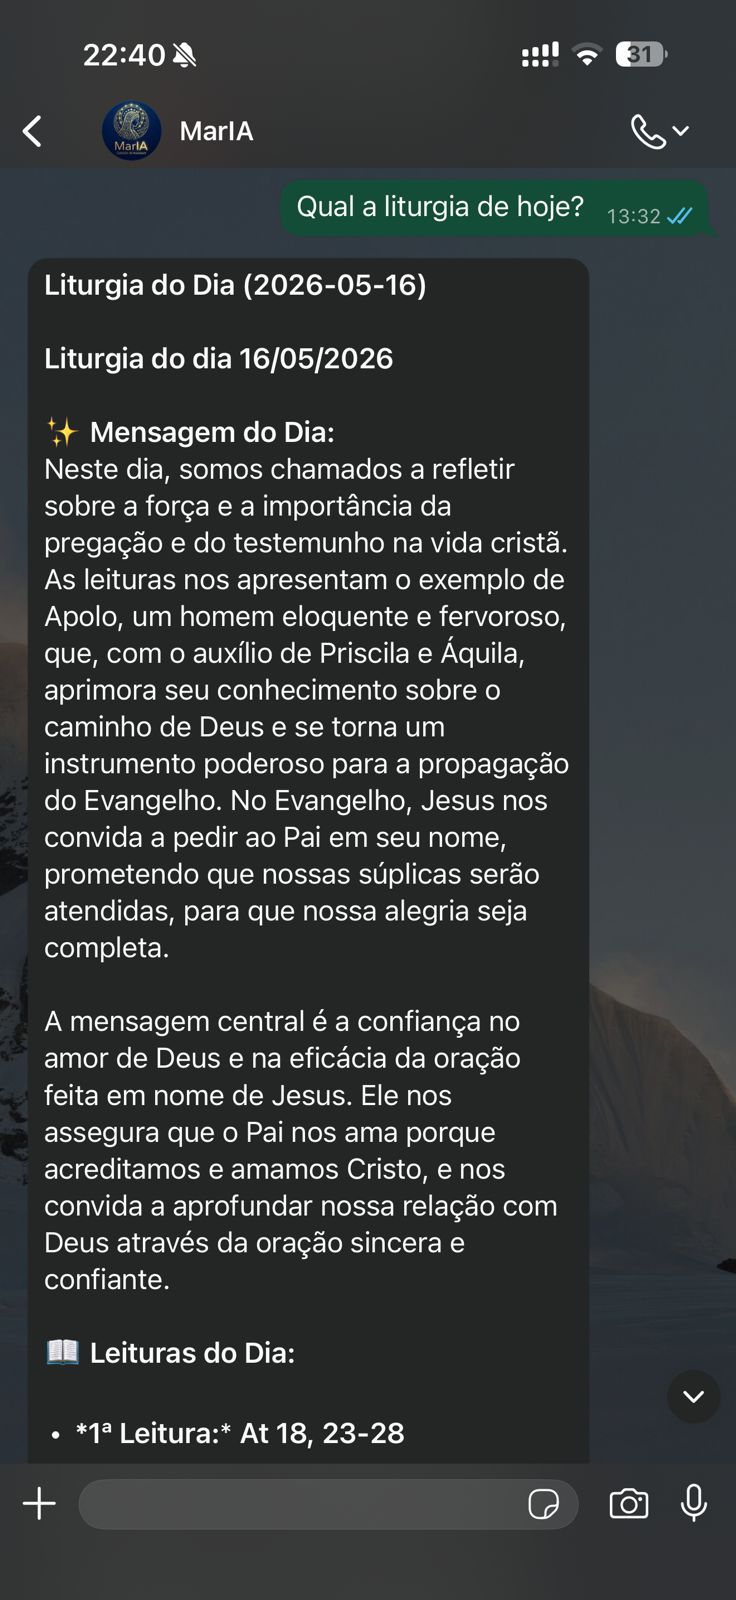
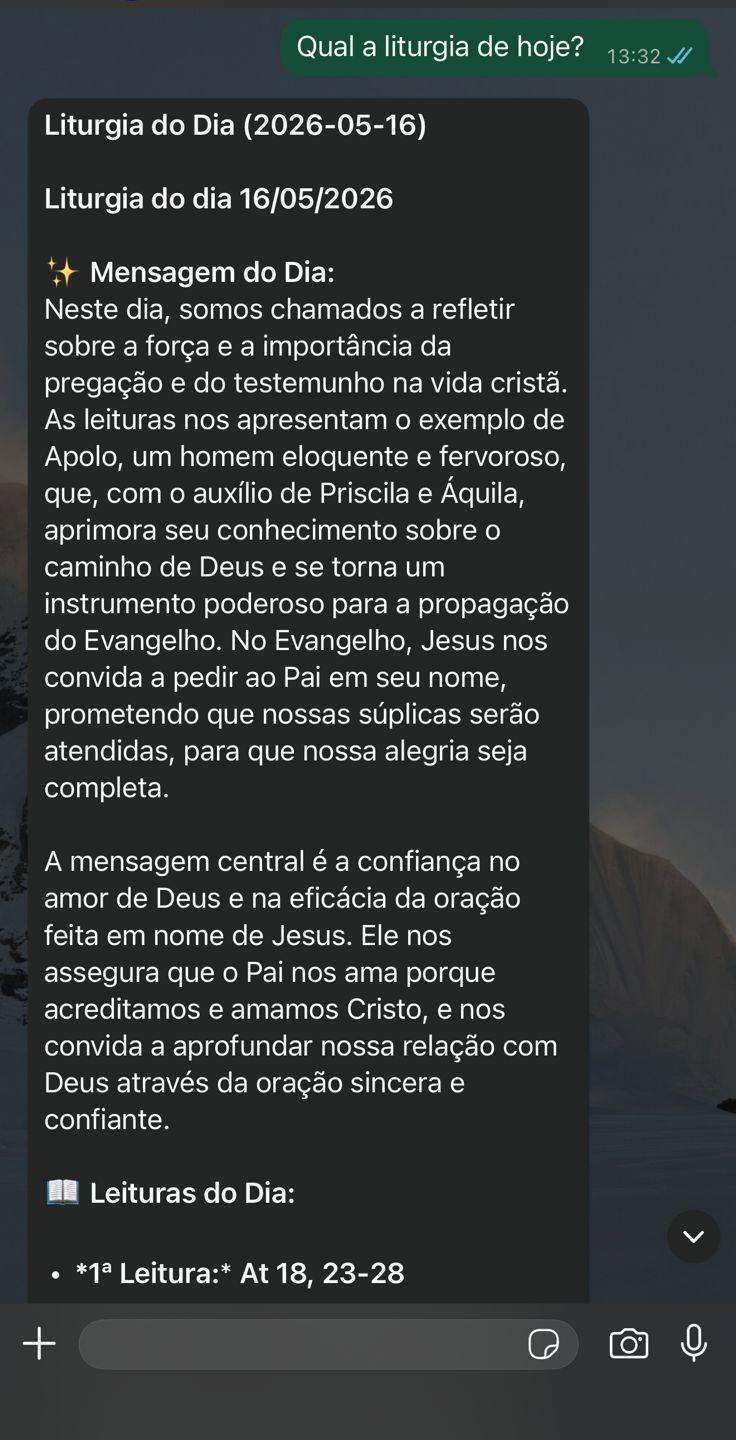
feat: implement legal pages with markdown rendering and update landing page assets and theme.

diff --git a/landing/src/app/privacidade/page.tsx b/landing/src/app/privacidade/page.tsx
@@ -50,9 +50,9 @@ export default function PrivacyPolicy() {
     html = html.replace(/\*\*(.*?)\*\*/g, "<strong>$1</strong>");
 
     // Headers
-    html = html.replace(/^### (.*?)$/gm, "<h3 class='text-xl font-bold mt-8 mb-4 text-white'>$1</h3>");
-    html = html.replace(/^## (.*?)$/gm, "<h2 class='text-2xl font-bold mt-10 mb-4 text-white border-b border-white/10 pb-2'>$1</h2>");
-    html = html.replace(/^# (.*?)$/gm, "<h1 class='text-4xl font-extrabold mt-12 mb-6 text-[#D4AF37]'>$1</h1>");
+    html = html.replace(/^### (.*?)$/gm, "<h3 class='text-xl font-bold mt-8 mb-4 text-slate-800'>$1</h3>");
+    html = html.replace(/^## (.*?)$/gm, "<h2 class='text-2xl font-bold mt-10 mb-4 text-slate-900 border-b border-slate-200 pb-2'>$1</h2>");
+    html = html.replace(/^# (.*?)$/gm, "<h1 class='text-4xl font-extrabold mt-12 mb-6 text-[#0047AB]'>$1</h1>");
 
     // Bullet Lists
     const lines = html.split("\n");
@@ -64,7 +64,7 @@ export default function PrivacyPolicy() {
         let res = "";
         if (!inList) {
           inList = true;
-          res += "<ul class='list-disc list-inside my-6 pl-4 space-y-3 text-slate-300'>";
+          res += "<ul class='list-disc list-inside my-6 pl-4 space-y-3 text-slate-600'>";
         }
         res += `<li>${content}</li>`;
         return res;
@@ -91,7 +91,7 @@ export default function PrivacyPolicy() {
         if (trimmed.startsWith("<h") || trimmed.startsWith("<ul") || trimmed.startsWith("<li")) {
           return trimmed;
         }
-        return `<p class="my-5 text-slate-300 leading-relaxed font-light text-base md:text-lg">${trimmed.replace(/\n/g, "<br />")}</p>`;
+        return `<p class="my-5 text-slate-600 leading-relaxed font-light text-base md:text-lg">${trimmed.replace(/\n/g, "<br />")}</p>`;
       })
       .filter(Boolean)
       .join("\n");
@@ -100,22 +100,22 @@ export default function PrivacyPolicy() {
   }
 
   return (
-    <div className="min-h-screen bg-slate-950 font-sans text-slate-300 selection:bg-[#D4AF37] selection:text-[#0047AB] overflow-x-hidden relative flex flex-col justify-between">
+    <div className="min-h-screen bg-slate-50 font-sans text-slate-700 selection:bg-[#D4AF37]/35 selection:text-slate-900 overflow-x-hidden relative flex flex-col justify-between">
       {/* Background Ornaments */}
-      <div className="absolute inset-0 bg-[#000a1c] -z-20"></div>
-      <div className="absolute top-[-10%] right-[-10%] w-[70%] h-[70%] bg-[#0047AB]/20 rounded-full filter blur-[120px] opacity-40 -z-10"></div>
-      <div className="absolute bottom-[-15%] left-[-10%] w-[60%] h-[60%] bg-[#D4AF37]/10 rounded-full filter blur-[100px] opacity-30 -z-10"></div>
+      <div className="absolute inset-0 bg-[#FAF9F6] -z-20"></div>
+      <div className="absolute top-[-10%] right-[-10%] w-[70%] h-[70%] bg-[#0047AB]/5 rounded-full filter blur-[120px] opacity-40 -z-10"></div>
+      <div className="absolute bottom-[-15%] left-[-10%] w-[60%] h-[60%] bg-[#D4AF37]/5 rounded-full filter blur-[100px] opacity-30 -z-10"></div>
 
       {/* Top Navbar */}
-      <header className="w-full z-50 bg-slate-950/70 backdrop-blur-xl border-b border-white/5 shadow-lg">
+      <header className="w-full z-50 bg-white/70 backdrop-blur-xl border-b border-slate-200/60 shadow-sm">
         <div className="max-w-7xl mx-auto px-6 h-20 flex justify-between items-center">
           <Link href="/" className="flex items-center gap-3 group">
-            <div className="relative w-12 h-12 rounded-full overflow-hidden shadow-sm border border-white/10 group-hover:scale-105 transition-transform duration-300">
+            <div className="relative w-12 h-12 rounded-full overflow-hidden shadow-sm border border-slate-200/60 group-hover:scale-105 transition-transform duration-300">
                <Image src="/maria_logo_premium.png" alt="MarIA Logo" fill className="object-cover" />
             </div>
-            <span className="font-bold text-2xl tracking-tight text-white">MarIA</span>
+            <span className="font-bold text-2xl tracking-tight text-slate-900">MarIA</span>
           </Link>
-          <Link href="/" className="px-6 py-2.5 bg-white/5 border border-white/10 text-white rounded-full hover:bg-white/10 hover:border-white/20 hover:shadow-lg transition-all shadow-sm font-semibold text-sm">
+          <Link href="/" className="px-6 py-2.5 bg-slate-100 border border-slate-200 text-slate-800 rounded-full hover:bg-slate-200 hover:shadow-md transition-all shadow-sm font-semibold text-sm">
             Voltar para o Início
           </Link>
         </div>
@@ -125,45 +125,45 @@ export default function PrivacyPolicy() {
       <main className="flex-grow max-w-4xl w-full mx-auto px-6 py-16 md:py-24 relative z-10">
         {loading ? (
           /* Loading Skeleton Status */
-          <div className="bg-white/5 backdrop-blur-xl rounded-[2rem] border border-white/10 p-8 md:p-12 shadow-2xl animate-pulse space-y-8">
-            <div className="h-4 bg-white/10 rounded w-1/4"></div>
-            <div className="h-10 bg-white/10 rounded w-3/4"></div>
+          <div className="bg-white/80 backdrop-blur-xl rounded-[2rem] border border-slate-200/60 p-8 md:p-12 shadow-xl animate-pulse space-y-8">
+            <div className="h-4 bg-slate-200 rounded w-1/4"></div>
+            <div className="h-10 bg-slate-200 rounded w-3/4"></div>
             <div className="space-y-3">
-              <div className="h-4 bg-white/10 rounded"></div>
-              <div className="h-4 bg-white/10 rounded"></div>
-              <div className="h-4 bg-white/10 rounded w-5/6"></div>
+              <div className="h-4 bg-slate-200 rounded"></div>
+              <div className="h-4 bg-slate-200 rounded"></div>
+              <div className="h-4 bg-slate-200 rounded w-5/6"></div>
             </div>
-            <div className="h-8 bg-white/10 rounded w-1/2 mt-12"></div>
+            <div className="h-8 bg-slate-200 rounded w-1/2 mt-12"></div>
             <div className="space-y-3">
-              <div className="h-4 bg-white/10 rounded"></div>
-              <div className="h-4 bg-white/10 rounded w-4/5"></div>
+              <div className="h-4 bg-slate-200 rounded"></div>
+              <div className="h-4 bg-slate-200 rounded w-4/5"></div>
             </div>
           </div>
         ) : error ? (
           /* Error Screen */
-          <div className="bg-red-500/10 backdrop-blur-xl rounded-[2rem] border border-red-500/25 p-8 md:p-12 text-center max-w-2xl mx-auto shadow-2xl">
+          <div className="bg-red-50 backdrop-blur-xl rounded-[2rem] border border-red-200 p-8 md:p-12 text-center max-w-2xl mx-auto shadow-xl">
             <span className="text-5xl block mb-6">⚠</span>
-            <h2 className="text-2xl font-bold text-white mb-4">Falha ao Carregar</h2>
-            <p className="text-red-200/80 font-light mb-8 leading-relaxed">
+            <h2 className="text-2xl font-bold text-slate-900 mb-4">Falha ao Carregar</h2>
+            <p className="text-slate-600 font-light mb-8 leading-relaxed">
               {error}
             </p>
             <button 
               onClick={fetchData}
-              className="px-8 py-3 bg-[#0047AB] text-white rounded-full font-bold shadow-lg hover:bg-[#003580] transition-colors"
+              className="px-8 py-3 bg-[#0047AB] text-white rounded-full font-bold shadow-md hover:bg-[#003580] transition-colors"
             >
               Tentar Novamente
             </button>
           </div>
         ) : (
           /* Dynamic Render Page */
-          <div className="bg-white/5 backdrop-blur-xl rounded-[2.5rem] border border-white/10 p-8 md:p-16 shadow-2xl relative overflow-hidden">
+          <div className="bg-white/90 backdrop-blur-xl rounded-[2.5rem] border border-slate-200/60 p-8 md:p-16 shadow-xl relative overflow-hidden">
             {setting?.updated_at && (
-              <div className="text-slate-400 text-xs font-semibold tracking-wider uppercase mb-4">
+              <div className="text-slate-500 text-xs font-semibold tracking-wider uppercase mb-4">
                 Última atualização: {new Date(setting.updated_at).toLocaleDateString("pt-BR", { day: "2-digit", month: "long", year: "numeric" })}
               </div>
             )}
             <div 
-              className="prose prose-invert max-w-none text-slate-300 font-sans"
+              className="prose max-w-none text-slate-700 font-sans"
               dangerouslySetInnerHTML={{ __html: parseMarkdown(setting?.value || "") }}
             />
           </div>
@@ -171,7 +171,7 @@ export default function PrivacyPolicy() {
       </main>
 
       {/* Footer */}
-      <footer className="w-full py-12 bg-slate-950 text-slate-500 border-t border-white/5 text-center mt-12">
+      <footer className="w-full py-12 bg-slate-50 text-slate-500 border-t border-slate-200 text-center mt-12">
         <div className="max-w-7xl mx-auto px-6 flex flex-col md:flex-row justify-between items-center gap-6 text-sm">
           <p className="font-light">
             &copy; {new Date().getFullYear()} MarIA. Uma iniciativa Acutis Tech. Todos os direitos reservados.

diff --git a/landing/src/app/termos/page.tsx b/landing/src/app/termos/page.tsx
@@ -50,9 +50,9 @@ export default function TermsOfUse() {
     html = html.replace(/\*\*(.*?)\*\*/g, "<strong>$1</strong>");
 
     // Headers
-    html = html.replace(/^### (.*?)$/gm, "<h3 class='text-xl font-bold mt-8 mb-4 text-white'>$1</h3>");
-    html = html.replace(/^## (.*?)$/gm, "<h2 class='text-2xl font-bold mt-10 mb-4 text-white border-b border-white/10 pb-2'>$1</h2>");
-    html = html.replace(/^# (.*?)$/gm, "<h1 class='text-4xl font-extrabold mt-12 mb-6 text-[#D4AF37]'>$1</h1>");
+    html = html.replace(/^### (.*?)$/gm, "<h3 class='text-xl font-bold mt-8 mb-4 text-slate-800'>$1</h3>");
+    html = html.replace(/^## (.*?)$/gm, "<h2 class='text-2xl font-bold mt-10 mb-4 text-slate-900 border-b border-slate-200 pb-2'>$1</h2>");
+    html = html.replace(/^# (.*?)$/gm, "<h1 class='text-4xl font-extrabold mt-12 mb-6 text-[#0047AB]'>$1</h1>");
 
     // Bullet Lists
     const lines = html.split("\n");
@@ -64,7 +64,7 @@ export default function TermsOfUse() {
         let res = "";
         if (!inList) {
           inList = true;
-          res += "<ul class='list-disc list-inside my-6 pl-4 space-y-3 text-slate-300'>";
+          res += "<ul class='list-disc list-inside my-6 pl-4 space-y-3 text-slate-600'>";
         }
         res += `<li>${content}</li>`;
         return res;
@@ -91,7 +91,7 @@ export default function TermsOfUse() {
         if (trimmed.startsWith("<h") || trimmed.startsWith("<ul") || trimmed.startsWith("<li")) {
           return trimmed;
         }
-        return `<p class="my-5 text-slate-300 leading-relaxed font-light text-base md:text-lg">${trimmed.replace(/\n/g, "<br />")}</p>`;
+        return `<p class="my-5 text-slate-600 leading-relaxed font-light text-base md:text-lg">${trimmed.replace(/\n/g, "<br />")}</p>`;
       })
       .filter(Boolean)
       .join("\n");
@@ -100,22 +100,22 @@ export default function TermsOfUse() {
   }
 
   return (
-    <div className="min-h-screen bg-slate-950 font-sans text-slate-300 selection:bg-[#D4AF37] selection:text-[#0047AB] overflow-x-hidden relative flex flex-col justify-between">
+    <div className="min-h-screen bg-slate-50 font-sans text-slate-700 selection:bg-[#D4AF37]/35 selection:text-slate-900 overflow-x-hidden relative flex flex-col justify-between">
       {/* Background Ornaments */}
-      <div className="absolute inset-0 bg-[#000a1c] -z-20"></div>
-      <div className="absolute top-[-10%] right-[-10%] w-[70%] h-[70%] bg-[#0047AB]/20 rounded-full filter blur-[120px] opacity-40 -z-10"></div>
-      <div className="absolute bottom-[-15%] left-[-10%] w-[60%] h-[60%] bg-[#D4AF37]/10 rounded-full filter blur-[100px] opacity-30 -z-10"></div>
+      <div className="absolute inset-0 bg-[#FAF9F6] -z-20"></div>
+      <div className="absolute top-[-10%] right-[-10%] w-[70%] h-[70%] bg-[#0047AB]/5 rounded-full filter blur-[120px] opacity-40 -z-10"></div>
+      <div className="absolute bottom-[-15%] left-[-10%] w-[60%] h-[60%] bg-[#D4AF37]/5 rounded-full filter blur-[100px] opacity-30 -z-10"></div>
 
       {/* Top Navbar */}
-      <header className="w-full z-50 bg-slate-950/70 backdrop-blur-xl border-b border-white/5 shadow-lg">
+      <header className="w-full z-50 bg-white/70 backdrop-blur-xl border-b border-slate-200/60 shadow-sm">
         <div className="max-w-7xl mx-auto px-6 h-20 flex justify-between items-center">
           <Link href="/" className="flex items-center gap-3 group">
-            <div className="relative w-12 h-12 rounded-full overflow-hidden shadow-sm border border-white/10 group-hover:scale-105 transition-transform duration-300">
+            <div className="relative w-12 h-12 rounded-full overflow-hidden shadow-sm border border-slate-200/60 group-hover:scale-105 transition-transform duration-300">
                <Image src="/maria_logo_premium.png" alt="MarIA Logo" fill className="object-cover" />
             </div>
-            <span className="font-bold text-2xl tracking-tight text-white">MarIA</span>
+            <span className="font-bold text-2xl tracking-tight text-slate-900">MarIA</span>
           </Link>
-          <Link href="/" className="px-6 py-2.5 bg-white/5 border border-white/10 text-white rounded-full hover:bg-white/10 hover:border-white/20 hover:shadow-lg transition-all shadow-sm font-semibold text-sm">
+          <Link href="/" className="px-6 py-2.5 bg-slate-100 border border-slate-200 text-slate-800 rounded-full hover:bg-slate-200 hover:shadow-md transition-all shadow-sm font-semibold text-sm">
             Voltar para o Início
           </Link>
         </div>
@@ -125,45 +125,45 @@ export default function TermsOfUse() {
       <main className="flex-grow max-w-4xl w-full mx-auto px-6 py-16 md:py-24 relative z-10">
         {loading ? (
           /* Loading Skeleton Status */
-          <div className="bg-white/5 backdrop-blur-xl rounded-[2rem] border border-white/10 p-8 md:p-12 shadow-2xl animate-pulse space-y-8">
-            <div className="h-4 bg-white/10 rounded w-1/4"></div>
-            <div className="h-10 bg-white/10 rounded w-3/4"></div>
+          <div className="bg-white/80 backdrop-blur-xl rounded-[2rem] border border-slate-200/60 p-8 md:p-12 shadow-xl animate-pulse space-y-8">
+            <div className="h-4 bg-slate-200 rounded w-1/4"></div>
+            <div className="h-10 bg-slate-200 rounded w-3/4"></div>
             <div className="space-y-3">
-              <div className="h-4 bg-white/10 rounded"></div>
-              <div className="h-4 bg-white/10 rounded"></div>
-              <div className="h-4 bg-white/10 rounded w-5/6"></div>
+              <div className="h-4 bg-slate-200 rounded"></div>
+              <div className="h-4 bg-slate-200 rounded"></div>
+              <div className="h-4 bg-slate-200 rounded w-5/6"></div>
             </div>
-            <div className="h-8 bg-white/10 rounded w-1/2 mt-12"></div>
+            <div className="h-8 bg-slate-200 rounded w-1/2 mt-12"></div>
             <div className="space-y-3">
-              <div className="h-4 bg-white/10 rounded"></div>
-              <div className="h-4 bg-white/10 rounded w-4/5"></div>
+              <div className="h-4 bg-slate-200 rounded"></div>
+              <div className="h-4 bg-slate-200 rounded w-4/5"></div>
             </div>
           </div>
         ) : error ? (
           /* Error Screen */
-          <div className="bg-red-500/10 backdrop-blur-xl rounded-[2rem] border border-red-500/25 p-8 md:p-12 text-center max-w-2xl mx-auto shadow-2xl">
+          <div className="bg-red-50 backdrop-blur-xl rounded-[2rem] border border-red-200 p-8 md:p-12 text-center max-w-2xl mx-auto shadow-xl">
             <span className="text-5xl block mb-6">⚠</span>
-            <h2 className="text-2xl font-bold text-white mb-4">Falha ao Carregar</h2>
-            <p className="text-red-200/80 font-light mb-8 leading-relaxed">
+            <h2 className="text-2xl font-bold text-slate-900 mb-4">Falha ao Carregar</h2>
+            <p className="text-slate-600 font-light mb-8 leading-relaxed">
               {error}
             </p>
             <button 
               onClick={fetchData}
-              className="px-8 py-3 bg-[#0047AB] text-white rounded-full font-bold shadow-lg hover:bg-[#003580] transition-colors"
+              className="px-8 py-3 bg-[#0047AB] text-white rounded-full font-bold shadow-md hover:bg-[#003580] transition-colors"
             >
               Tentar Novamente
             </button>
           </div>
         ) : (
           /* Dynamic Render Page */
-          <div className="bg-white/5 backdrop-blur-xl rounded-[2.5rem] border border-white/10 p-8 md:p-16 shadow-2xl relative overflow-hidden">
+          <div className="bg-white/90 backdrop-blur-xl rounded-[2.5rem] border border-slate-200/60 p-8 md:p-16 shadow-xl relative overflow-hidden">
             {setting?.updated_at && (
-              <div className="text-slate-400 text-xs font-semibold tracking-wider uppercase mb-4">
+              <div className="text-slate-500 text-xs font-semibold tracking-wider uppercase mb-4">
                 Última atualização: {new Date(setting.updated_at).toLocaleDateString("pt-BR", { day: "2-digit", month: "long", year: "numeric" })}
               </div>
             )}
             <div 
-              className="prose prose-invert max-w-none text-slate-300 font-sans"
+              className="prose max-w-none text-slate-700 font-sans"
               dangerouslySetInnerHTML={{ __html: parseMarkdown(setting?.value || "") }}
             />
           </div>
@@ -171,7 +171,7 @@ export default function TermsOfUse() {
       </main>
 
       {/* Footer */}
-      <footer className="w-full py-12 bg-slate-950 text-slate-500 border-t border-white/5 text-center mt-12">
+      <footer className="w-full py-12 bg-slate-50 text-slate-500 border-t border-slate-200 text-center mt-12">
         <div className="max-w-7xl mx-auto px-6 flex flex-col md:flex-row justify-between items-center gap-6 text-sm">
           <p className="font-light">
             &copy; {new Date().getFullYear()} MarIA. Uma iniciativa Acutis Tech. Todos os direitos reservados.

diff --git a/landing/src/app/page.tsx b/landing/src/app/page.tsx
@@ -148,7 +148,7 @@ export default function Home() {
                   {chatImages.map((src, index) => (
                     <div 
                       key={src} 
-                      className={`absolute inset-x-0 -top-[9%] h-[109%] transition-all duration-1000 ${
+                      className={`absolute inset-0 transition-all duration-1000 ${
                         index === currentImageIndex 
                           ? 'opacity-100 scale-100 z-10' 
                           : 'opacity-0 scale-105 z-0'
@@ -462,6 +462,34 @@ export default function Home() {
           </div>
         </div>
       </footer>
+
+      {/* Floating WhatsApp Button */}
+      <a
+        href="https://wa.me/5562981949980"
+        target="_blank"
+        rel="noopener noreferrer"
+        className="fixed bottom-8 right-8 z-50 flex items-center gap-3 group"
+        aria-label="Fale com a MarIA no WhatsApp"
+      >
+        {/* Label (Slides/Fades in on hover) */}
+        <span className="hidden md:inline-block px-4 py-2 bg-white text-slate-800 text-sm font-bold rounded-2xl shadow-[0_8px_30px_rgba(0,0,0,0.08)] border border-slate-100 opacity-0 -translate-x-4 group-hover:opacity-100 group-hover:translate-x-0 transition-all duration-300 pointer-events-none whitespace-nowrap">
+          Fale com a MarIA
+        </span>
+
+        {/* Button */}
+        <div className="relative flex items-center justify-center w-16 h-16 bg-[#25D366] text-white rounded-full shadow-[0_8px_30px_rgba(37,211,102,0.4)] hover:shadow-[0_12px_40px_rgba(37,211,102,0.6)] hover:scale-110 transition-all duration-300 border border-white/20 shrink-0">
+          {/* Elegant ripple rings */}
+          <span className="absolute inset-0 rounded-full bg-[#25D366] opacity-40 animate-ping pointer-events-none"></span>
+          
+          {/* WhatsApp SVG Icon */}
+          <svg 
+            className="w-8 h-8 fill-current relative z-10 transition-transform duration-300 group-hover:rotate-12" 
+            viewBox="0 0 24 24"
+          >
+            <path d="M12.012 2c-5.506 0-9.988 4.482-9.988 9.988 0 1.76.46 3.414 1.258 4.86L2 22l5.304-1.39a9.92 9.92 0 004.708 1.185h.004c5.506 0 10.012-4.482 10.012-9.992C22.028 6.486 17.518 2 12.012 2zm6.276 14.194c-.258.73-1.498 1.428-2.072 1.528-.574.1-1.314.18-3.926-.88-2.91-1.18-4.786-4.16-4.93-4.36-.146-.2-.1.08 1.01-1.39.528-.7 1.156-.84 1.488-.84.33 0 .428.02.56.02.13.01.3-.04.46.36.17.42.59 1.46.64 1.57.05.11.08.24.01.38-.07.14-.15.3-.3.47-.15.17-.32.38-.46.51-.16.15-.33.32-.14.65.19.33.85 1.41 1.83 2.29.98.88 1.81 1.15 2.14 1.28.33.13.52.11.71-.1.19-.21.82-.96 1.04-1.29.22-.33.45-.28.76-.16.31.12 1.97.93 2.3.1.33-.16.55-.38.6-.51.05-.13.08-.24.01-.38-.07-.14-.46-.36-1.12-.67z"/>
+          </svg>
+        </div>
+      </a>
     </div>
   );
 }

diff --git a/CHANGELOG.md b/CHANGELOG.md
@@ -9,10 +9,18 @@ and this project adheres to [Semantic Versioning](https://semver.org/spec/v2.0.0
 ### Added
 - **Gestão de Páginas Legais:** Nova seção "Páginas Legais" integrada no Painel de Configurações (`settings.tsx`) que possibilita a visualização e edição dinâmica em Markdown dos Termos de Uso (`terms_of_use`) e da Política de Privacidade (`privacy_policy`).
 - **Visualização em Tempo Real (Live Preview):** Interface de visualização em tempo real incorporada ao editor, simulando de forma fiel e com estética premium (tema escuro com detalhes dourados e glassmorphism) o layout exato de como as páginas legais são exibidas na Landing Page.
+- **Botão do WhatsApp Flutuante:** Adicionado um botão flutuante de WhatsApp premium no canto inferior direito da Landing Page. Ele conta com efeitos dinâmicos de ripple, micro-interações de escala e rotação no hover, e um elegante tooltip deslizante ("Fale com a MarIA") que guia o usuário a iniciar uma conversa com o número do bot `(62) 98194-9980`.
+
+### Changed
+- **Tema Claro para Páginas Legais:** As páginas de Termos de Uso (`/termos`) e Política de Privacidade (`/privacidade`) da Landing Page foram reestilizadas para um tema claro (Light Theme) altamente elegante e legível, com fundo claro de tom alabastro (`#FAF9F6`), contêineres em branco com glassmorphism suave e tipografia refinada em azul escuro e cinzas.
+- **Refinamento e Recorte Físico das Imagens de Chat:** As 4 imagens de conversação real com o WhatsApp (`chat-1.jpeg` a `chat-4.jpeg`) foram fisicamente editadas e recortadas em sua porção superior (excluindo os primeiros 160 pixels que continham a barra de status com horário, bateria e operadora). A Landing Page foi otimizada para aplicar `inset-0` ao invés de deslocamentos negativos de porcentagem, exibindo perfeitamente o cabeçalho oficial de contato da MarIA sem qualquer corte sob o notch físico do iPhone.
 
 ### Fixed
 - **Autenticação em Requisições Administrativas (x-admin-id):** Corrigidas as chamadas de API no painel de configurações para enviar o cabeçalho `'x-admin-id'` contendo o ID do administrador logado obtido do `localStorage`. Isso soluciona o erro de permissão que impedia a atualização das configurações gerais do sistema, limpeza de cache, sincronização de câmbio e chaveamento do modo de manutenção.
 - **Favicon da Landing Page:** Substituição do favicon padrão do Next.js pelo logo premium do projeto (`maria_logo_premium.png`) na raiz do aplicativo de landing, garantindo consistência visual de marca.
+
+### Removed
+- **Limpeza de Arquivos Redundantes (Housekeeping):** Remoção física de arquivos temporários e de rascunhos que acumulavam lixo técnico no workspace, como o script isolado `backend/test.js` e a pasta temporária de backup das imagens `landing/public/backups/`, deixando o repositório 100% limpo e otimizado.
 
 ## [1.12.0] - 2026-05-19
 ### Added
